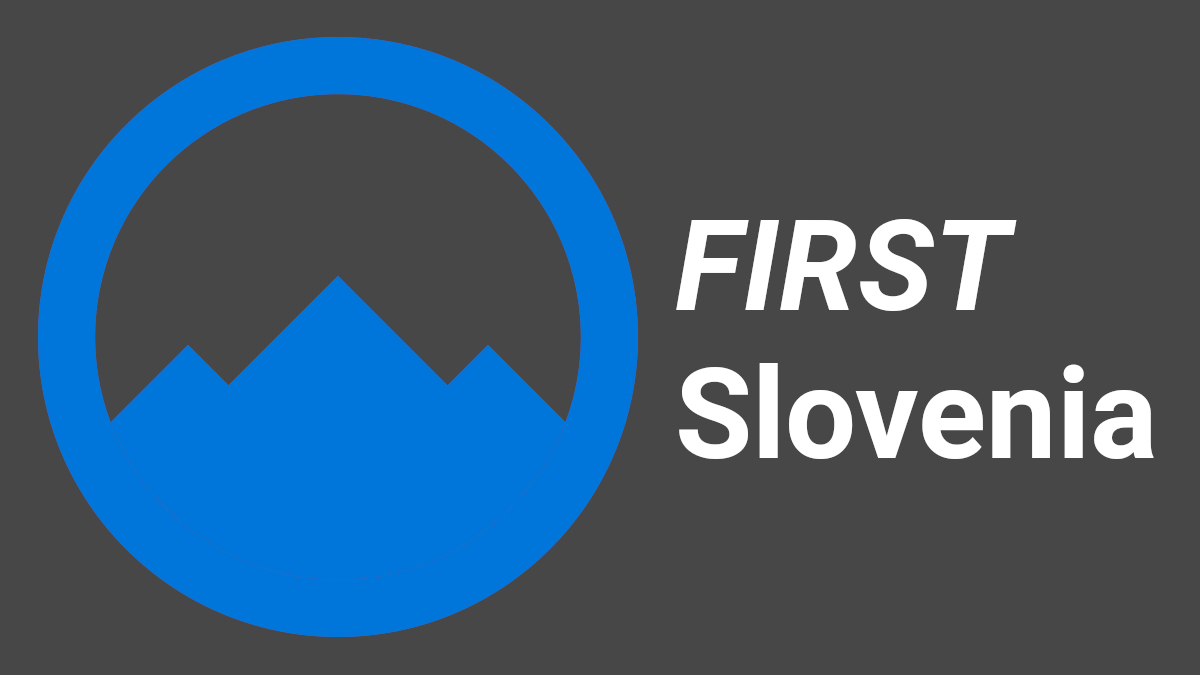
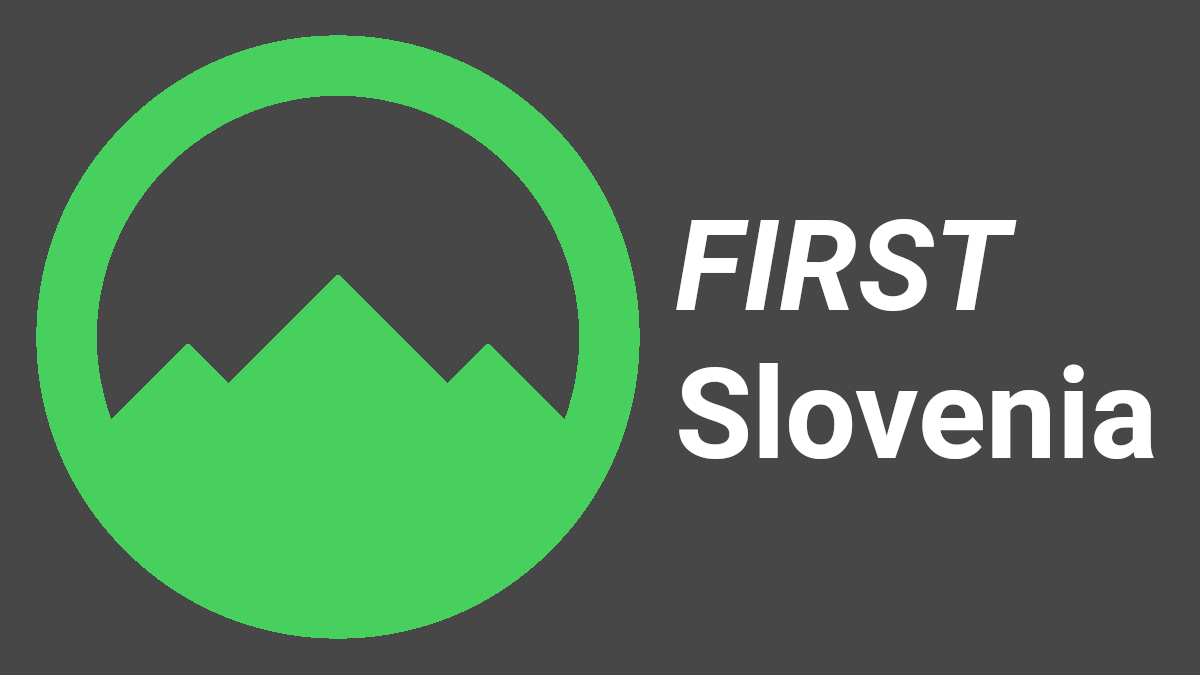
Synced the color with existing FGC flag

Changed region(s): [[0.0308, 0.0311, 0.555, 0.9644]]

diff --git a/src/pages/info.tsx b/src/pages/info.tsx
@@ -1,0 +1,19 @@
+import React from "react";
+
+const Rickroll = () => {
+  return (
+    <div className="w-full h-screen flex justify-center items-center bg-black">
+      <iframe
+        width="1000"
+        height="562"
+        src="https://www.youtube.com/embed/3BFTio5296w?autoplay=1&mute=1&controls=0&modestbranding=1&rel=0&showinfo=0"
+        title="Rickroll"
+        frameBorder="0"
+        allow="autoplay; encrypted-media"
+        allowFullScreen
+      ></iframe>
+    </div>
+  );
+};
+
+export default Rickroll;

diff --git a/src/css/custom.css b/src/css/custom.css
@@ -1,5 +1,5 @@
 :root {
-    --ifm-color-primary: #0075DA;
+    --ifm-color-primary: #48d05e;
     --ifm-color-primary-dark: #0065bd;
     --ifm-color-primary-darker: #00529a;
     --ifm-color-primary-darkest: #003f73;
@@ -36,7 +36,7 @@
 }
 
 [data-theme='dark'] {
-    --ifm-color-primary: #0075DA;
+    --ifm-color-primary: #48d05e;
     --ifm-color-primary-dark: #0065bd;
     --ifm-color-primary-darker: #00529a;
     --ifm-color-primary-darkest: #003f73;
